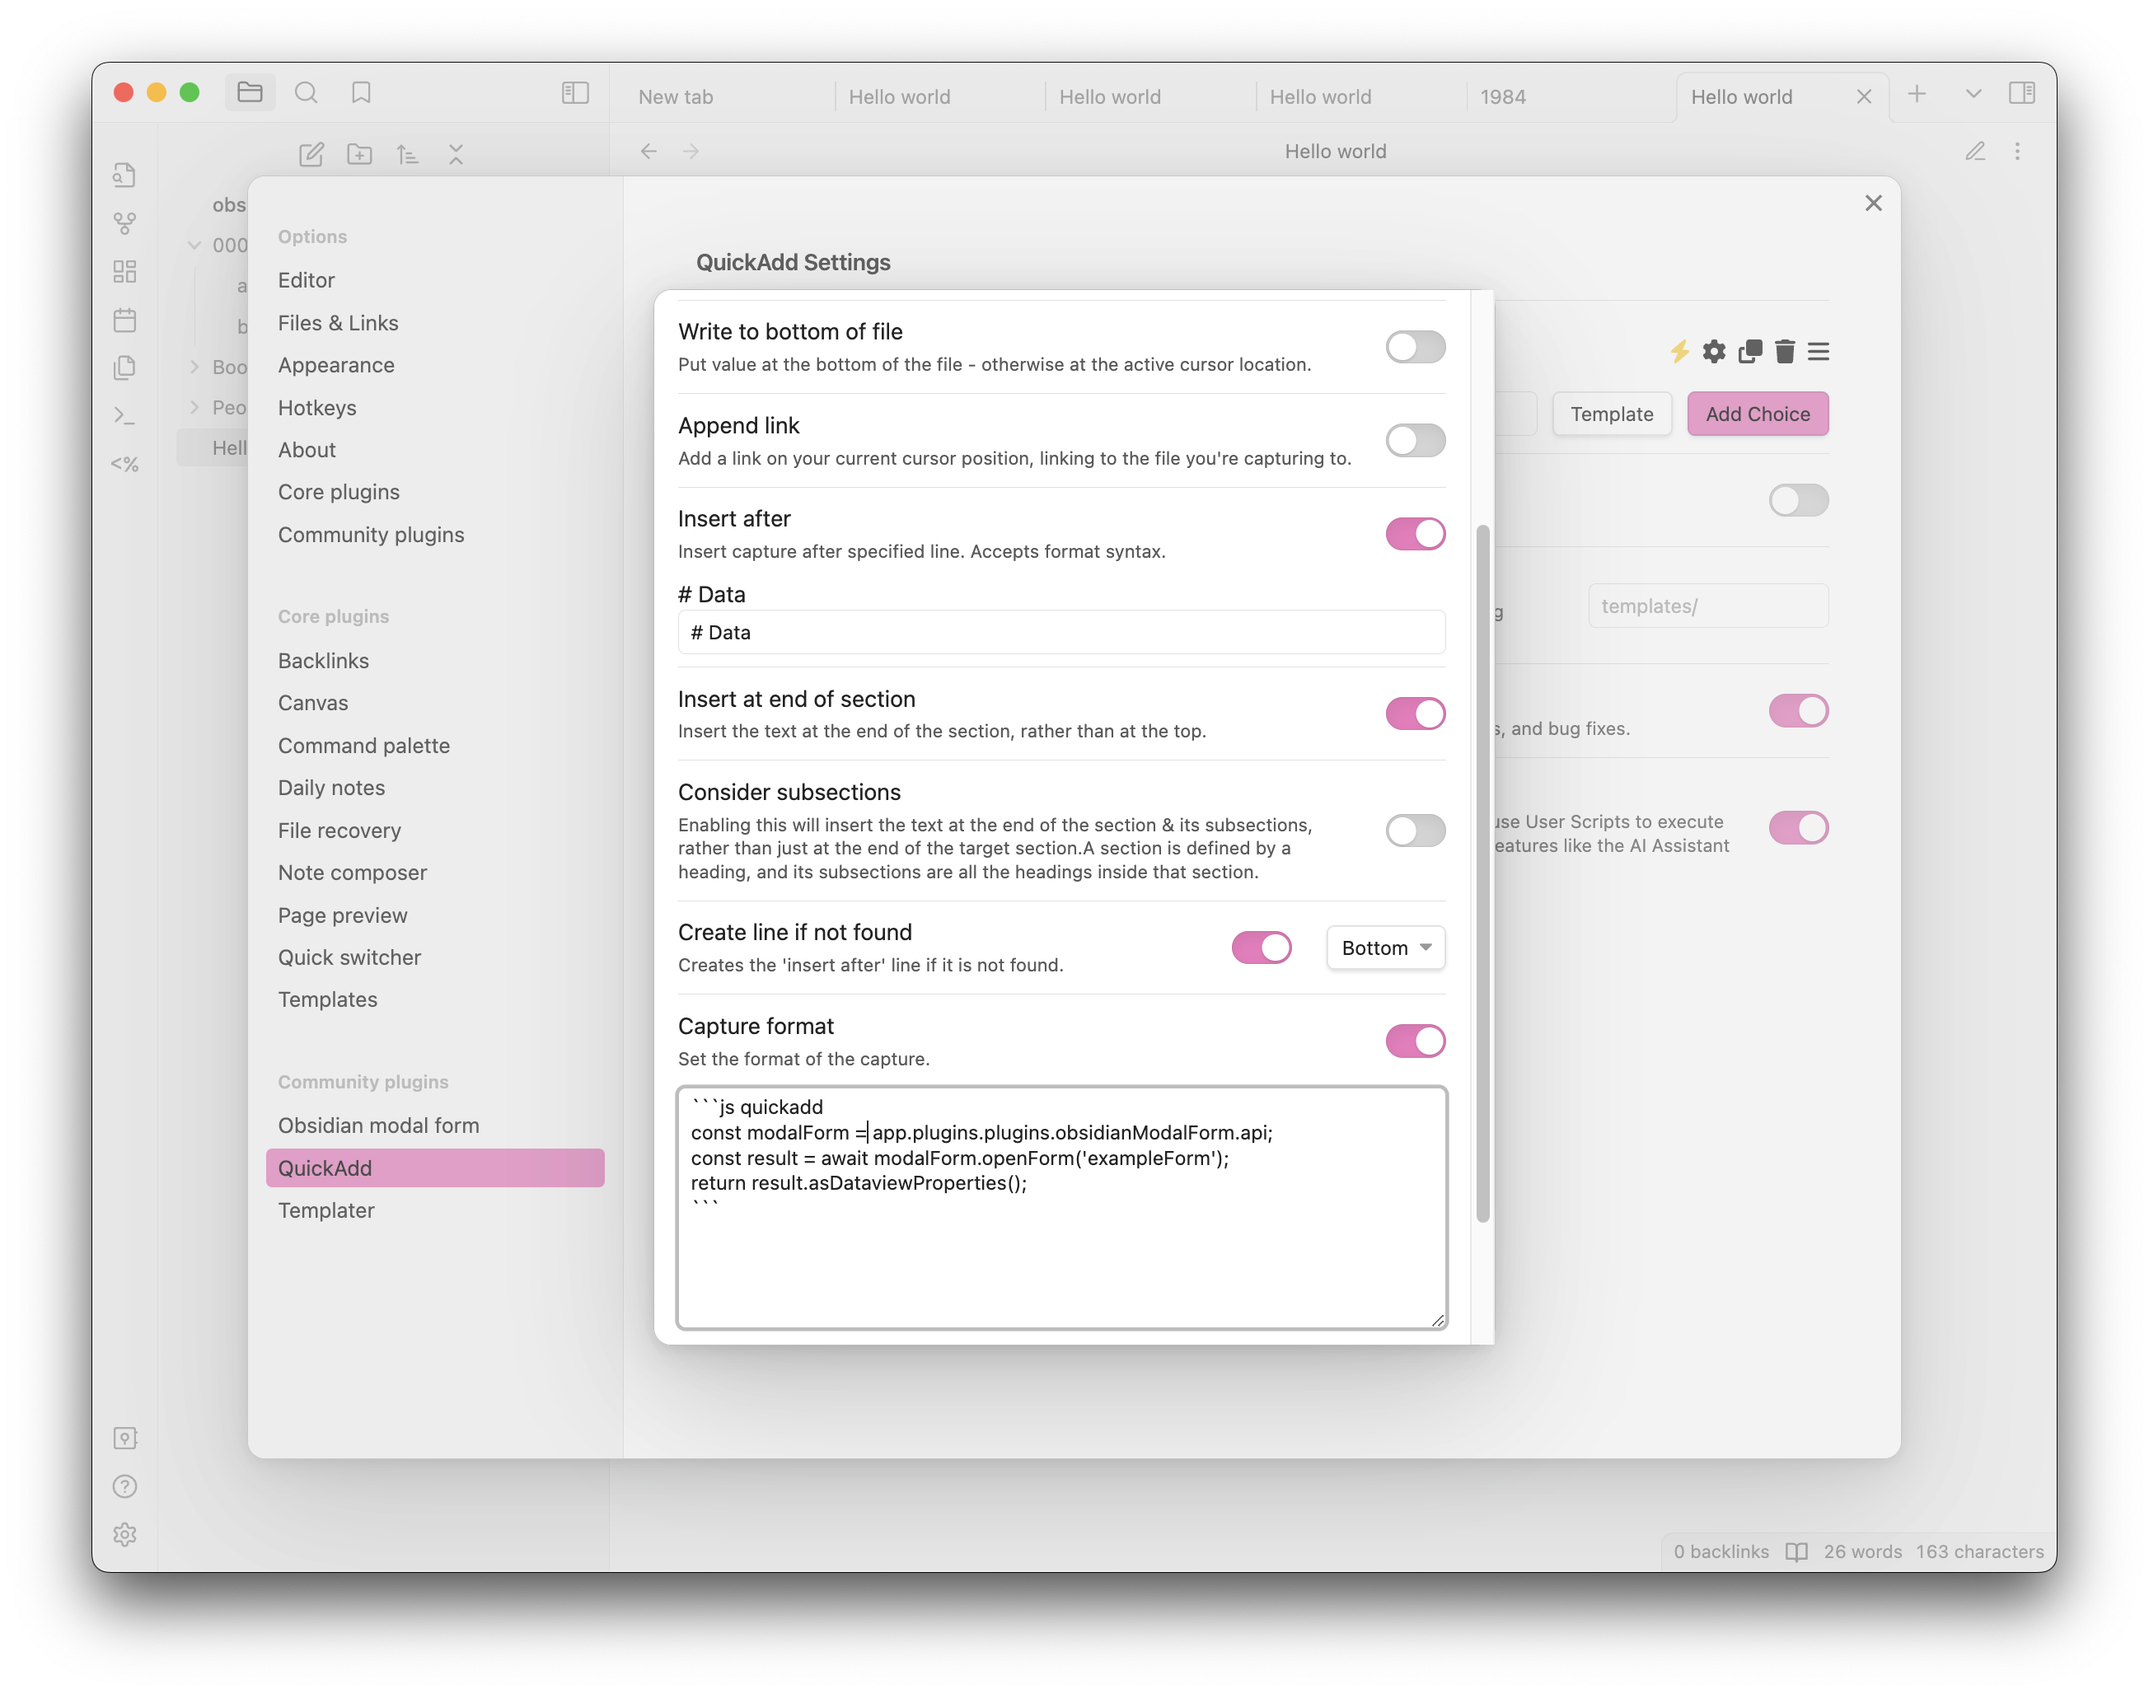
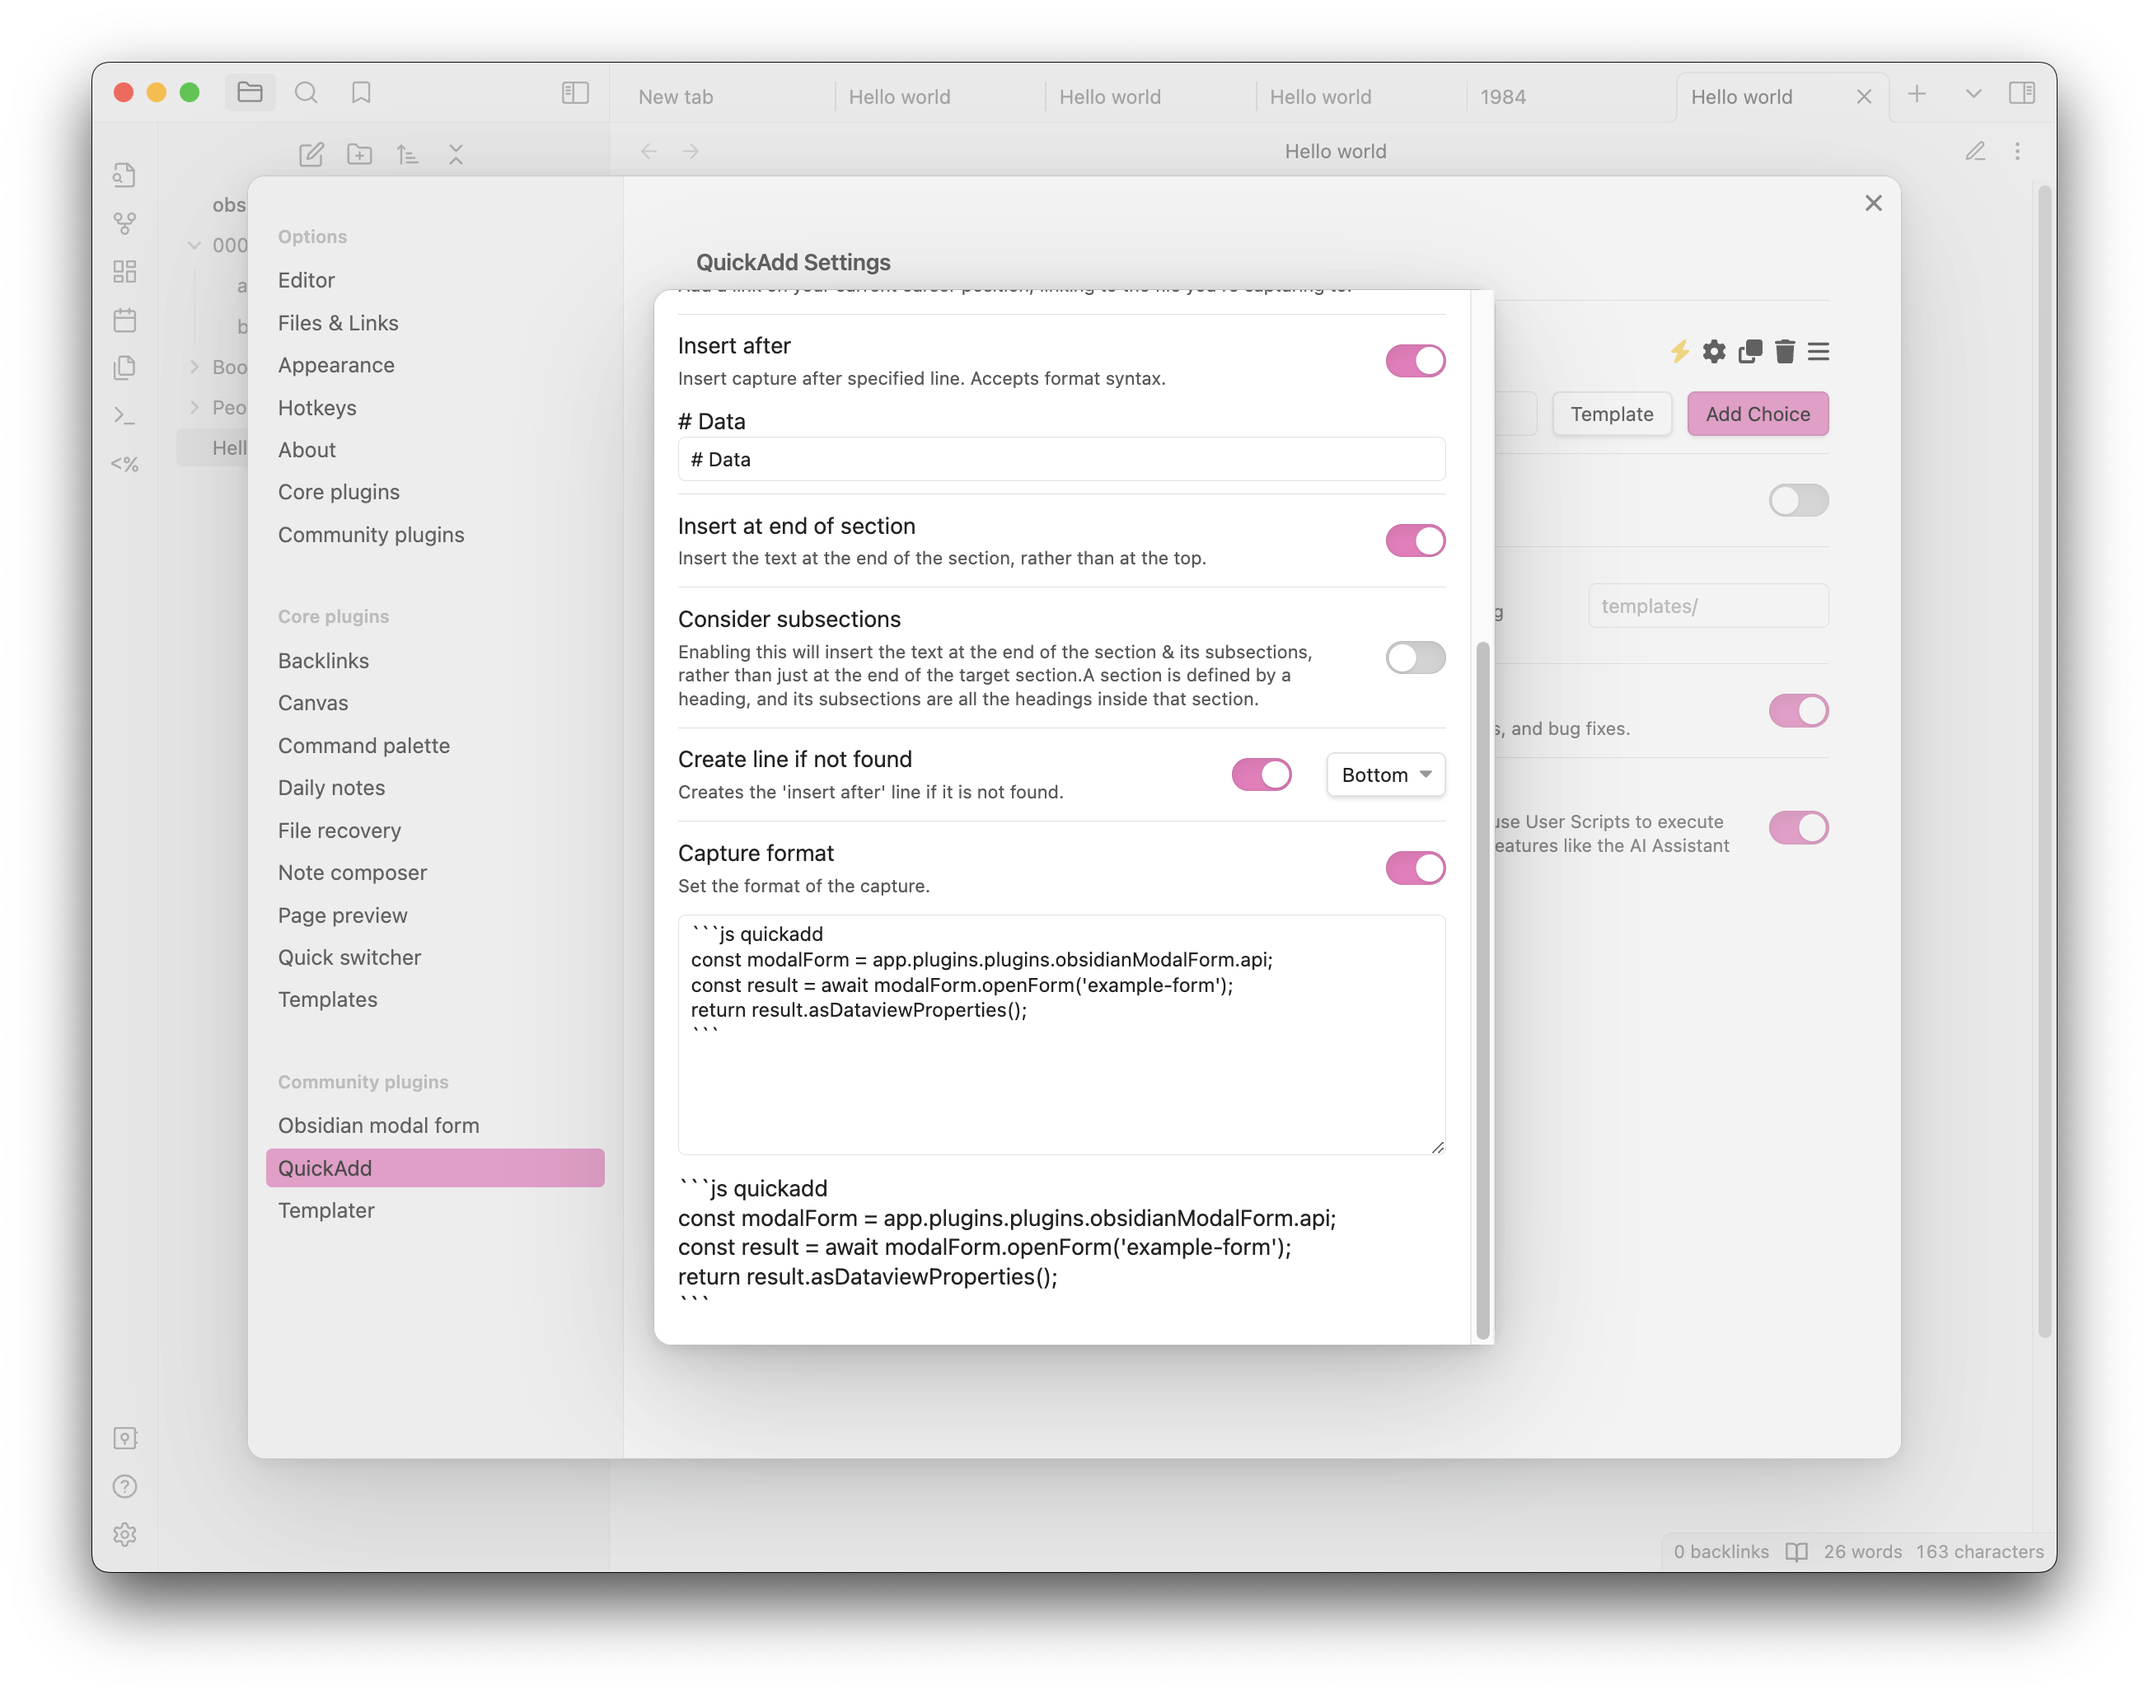
feat: real API v1

diff --git a/main.ts b/main.ts
@@ -3,6 +3,7 @@ import { MarkdownView, Notice, Plugin } from "obsidian";
 import FormResult from "src/FormResult";
 import { exampleModalDefinition } from "src/exampleModalDefinition";
 import { ModalFormSettingTab } from "ModalFormSettingTab";
+import { API } from "src/API";
 
 // Remember to rename these classes and interfaces!
 
@@ -17,6 +18,7 @@ const DEFAULT_SETTINGS: ModalFormSettings = {
 // Define functions and properties you want to make available to other plugins, or templater temmplates, etc
 interface PublicAPI {
 	exampleForm(): Promise<FormResult>;
+	openForm(name: string): Promise<FormResult>;
 }
 // This is the plugin entrypoint
 export default class ModalFormPlugin extends Plugin {
@@ -26,17 +28,10 @@ export default class ModalFormPlugin extends Plugin {
 
 	async onload() {
 		this.settings = await this.getSettings();
-		this.api = {
-			exampleForm: async () => {
-				return new Promise((resolve) => {
-					new FormModal(
-						this.app,
-						exampleModalDefinition,
-						resolve
-					).open();
-				});
-			},
-		};
+		if (this.settings.formDefinitions.length === 0) {
+			this.settings.formDefinitions.push(exampleModalDefinition);
+		}
+		this.api = new API(this.app, this);
 
 		// This creates an icon in the left ribbon.
 		const ribbonIconEl = this.addRibbonIcon(
@@ -90,7 +85,7 @@ export default class ModalFormPlugin extends Plugin {
 		this.addSettingTab(new ModalFormSettingTab(this.app, this));
 	}
 
-	onunload() {}
+	onunload() { }
 
 	async getSettings(): Promise<ModalFormSettings> {
 		return Object.assign({}, DEFAULT_SETTINGS, await this.loadData());

diff --git a/src/API.ts b/src/API.ts
@@ -1,0 +1,29 @@
+import { App } from "obsidian";
+import { FormDefinition, FormModal } from "./FormModal";
+import FormResult from "./FormResult";
+import { exampleModalDefinition } from "./exampleModalDefinition";
+import ModalFormPlugin from "main";
+
+export class API {
+	constructor(private app: App, private plugin: ModalFormPlugin) { }
+	openModalForm(formDefinition: FormDefinition): Promise<FormResult> {
+		return new Promise((resolve) => {
+			new FormModal(
+				this.app,
+				formDefinition,
+				resolve
+			).open();
+		});
+	}
+	exampleForm(): Promise<FormResult> {
+		return this.openModalForm(exampleModalDefinition)
+	}
+	openForm(name: string): Promise<FormResult> {
+		const formDefinition = this.plugin.settings?.formDefinitions.find(form => form.name === name);
+		if (formDefinition) {
+			return this.openModalForm(formDefinition);
+		} else {
+			throw new Error(`Form definition ${name} not found`);
+		}
+	}
+}

diff --git a/src/exampleModalDefinition.ts b/src/exampleModalDefinition.ts
@@ -1,7 +1,8 @@
 import { FormDefinition } from "src/FormModal";
 
 export const exampleModalDefinition: FormDefinition = {
-	title: "Example Modal",
+	title: "Example form",
+	name: "example-form",
 	fields: [
 		{
 			name: "Name",

diff --git a/src/FormModal.ts b/src/FormModal.ts
@@ -32,6 +32,7 @@ type inputType =
  */
 export type FormDefinition = {
 	title: string;
+	name: string;
 	fields: {
 		name: string;
 		label?: string;

diff --git a/README.md b/README.md
@@ -36,7 +36,7 @@ For that reason, rather than offering an alternative, this plugin is designed as
 
 ## Scope of this plugin
 
-This plugin is intentionally narrow in scope. As it's emntioned in the previous section, it is designed as a building block, so you can integrate it with other plugins and workflows.
+This plugin is intentionally narrow in scope. As it's mentioned in the previous section, it is designed as a building block, so you can integrate it with other plugins and workflows.
 The only features that I will consider adding will be ones about improving the form itself.
 
 ## Usage
@@ -51,11 +51,11 @@ The plugin exposes an API that can be accessed from any JavaScript code that has
 const modalForm = app.plugins.plugins.obsidianModalForm.api;
 ````
 
-From here you can call any of the mmain method of the API, `openForm` which allows you to open a form by name and get back the data. Let's see an example:
+From here you can call any of the main method of the API, `openForm` which allows you to open a form by name and get back the data. Let's see an example:
 
 ```javascript
 const modalForm = app.plugins.plugins.obsidianModalForm.api;
-const result = await formApi.openForm('exampleForm');
+const result = await modalForm.openForm('example-form');
 ```
 
 The result is a special type of object that contains the data of the form. 
@@ -69,7 +69,7 @@ One of them is `asFrontmatterString`, which returns the data as a string that ca
 ---
 <%* 
 const modalForm = app.plugins.plugins.obsidianModalForm.api;
-const result = await formApi.openForm('exampleForm');
+const result = await modalForm.openForm('example-form');
 tR += result.asFrontmatterString();
 -%>
 ---
@@ -83,7 +83,7 @@ In order to open a form from QuickAdd capture, you need to create a capture and 
 ```javascript
 	```js quickadd
 	const modalForm = app.plugins.plugins.obsidianModalForm.api;
-	const result = await modalForm.openForm('exampleForm');
+	const result = await modalForm.openForm('example-form');
 	return result.asDataviewProperties();
 	``` 
 ````
